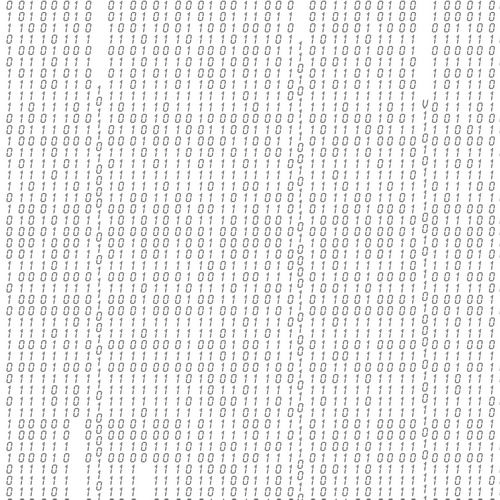
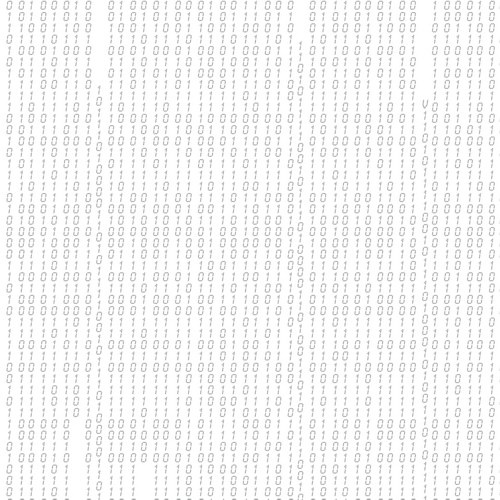
Add new projects, add phone number and resume

Changed region(s): [[0.0, 0.0, 0.99, 1.0]]

diff --git a/portfolio.html b/portfolio.html
@@ -54,12 +54,23 @@
                 <div class="col mb-4">
                   <div class="card h-100">
                     <div class="card-body">
-                      <a href="https://elogonme.github.io/travel-site/" target="_blank">
+                      <a href="https://elogonme.github.io/quarantine-match/" target="_blank">
                         <img src="assets/img/project1.jpg" class="card-img-top w-50 float-sm-left mr-4 btn mx-auto d-block  zoom-less" alt="Travel website">
                       </a>
-                      <h5 class="card-title">Travel Website</h5>
-                      <p class="card-text">Travel company website i made to apply my HTML/CSS/JS skills, improve knowledge, 
-                        practice coding and achieve goals. GitHub, Node.js, NPM, Object-oriented JavaScript, ES6, webpack</p>
+                      <h5 class="card-title">Quarantine Match</h5>
+                      <p class="card-text">Help people to find person of interest based on names and some funny facts, 
+                        entertain and have fun while using Quarantine Match web app. This application allows you to check 
+                        compatibility with people you have recently met based on name and date of birth. </p>
+                    </div>
+                    <div class="card-footer bg-transparent">
+                      <a href="https://elogonme.github.io/quarantine-match/" target="_blank" class="card-link text-info">
+                        <i class="fas fa-mouse-pointer text-secondary"></i>
+                        Website
+                      </a>
+                      <a href="https://github.com/elogonme/quarantine-match" target="_blank" class="card-link text-info">
+                        <i class="fab fa-github-square text-secondary"></i>
+                        GitHub
+                      </a>
                     </div>
                   </div>
                 </div>
@@ -67,39 +78,115 @@
                 <div class="col mb-4">
                   <div class="card h-100">
                     <div class="card-body">
-                      <a href="http://rovel.ca/" target="_blank">
-                        <img src="assets/img/project2.jpg" class="card-img-top w-50 float-sm-left mr-4 btn mx-auto d-block zoom-less" alt="Dive Calculator">
+                      <a href="https://elogonme.github.io/weather-dashboard/" target="_blank">
+                        <img src="assets/img/project2.jpg" class="card-img-top w-50 float-sm-left mr-4 btn mx-auto d-block  zoom-less" alt="Travel website">
                       </a>
-                      <h5 class="card-title">ROVCalc</h5>
-                      <p class="card-text">ROV Dive Time Calculator - Web App created for ROV Team offshore to use during daily 
-                        activities to calculate duration of Dive. Using HTML/CSS/JS</p>
+                      <h5 class="card-title">Weather Dashboard</h5>
+                      <p class="card-text">A simple weather dashboard web app which will get and show weather outlook 
+                        for multiple cities to help plan a trip. App uses the OpenWeather API to retrieve weather data 
+                        for cities. HTTP requests are implemented with use of AJAX, JSON to get data from third-party server-side API.</p>
+                    </div>
+                    <div class="card-footer bg-transparent">
+                      <a href="https://elogonme.github.io/weather-dashboard/" target="_blank" class="card-link text-info">
+                        <i class="fas fa-mouse-pointer text-secondary"></i>
+                        Website
+                      </a>
+                      <a href="https://github.com/elogonme/weather-dashboard" target="_blank" class="card-link text-info">
+                        <i class="fab fa-github-square text-secondary"></i>
+                        GitHub
+                      </a>
                     </div>
                   </div>
                 </div>
-                
+
                 <div class="col mb-4">
                   <div class="card h-100">
                     <div class="card-body">
-                      <a href="https://elogonme.github.io/questionnaire/" target="_blank">
-                        <img src="assets/img/project3.jpg" class="card-img-top w-50 float-sm-left mr-4 btn mx-auto d-block zoom-less" alt="Questionnaire application">
+                      <a href="https://elogonme.github.io/work-scheduler/" target="_blank">
+                        <img src="assets/img/project3.jpg" class="card-img-top w-50 float-sm-left mr-4 btn mx-auto d-block  zoom-less" alt="Travel website">
                       </a>
-                      <h5 class="card-title">Questionnaire</h5>
-                      <p class="card-text">Questionnaire form UI to collect and display personal info of employees - created using 
-                        Typescript / Angular Reactive forms</p>
+                      <h5 class="card-title">Work Day Scheduler</h5>
+                      <p class="card-text">Work Day Scheduler - a simple calendar application that allows a user to save events for each hour of the day.</p>
+                    </div>
+                    <div class="card-footer bg-transparent">
+                      <a href="https://elogonme.github.io/work-scheduler/" target="_blank" class="card-link text-info">
+                        <i class="fas fa-mouse-pointer text-secondary"></i>
+                        Website
+                      </a>
+                      <a href="https://github.com/elogonme/work-scheduler" target="_blank" class="card-link text-info">
+                        <i class="fab fa-github-square text-secondary"></i>
+                        GitHub
+                      </a>
                     </div>
                   </div>
                 </div>
-                
+
+                <div class="col mb-4">
+                  <div class="card h-100">
+                    <div class="card-body">
+                      <a href="https://elogonme.github.io/travel-site/" target="_blank">
+                        <img src="assets/img/project4.jpg" class="card-img-top w-50 float-sm-left mr-4 btn mx-auto d-block  zoom-less" alt="Travel website">
+                      </a>
+                      <h5 class="card-title">Travel Website</h5>
+                      <p class="card-text">Travel company website i made to apply my HTML/CSS/JS skills, improve knowledge, 
+                        practice coding and achieve goals. GitHub, Node.js, NPM, Object-oriented JavaScript, ES6, webpack</p>
+                    </div>
+                    <div class="card-footer bg-transparent">
+                      <a href="https://elogonme.github.io/travel-site/" target="_blank" class="card-link text-info">
+                        <i class="fas fa-mouse-pointer text-secondary"></i>
+                        Website
+                      </a>
+                      <a href="https://github.com/elogonme/travel-site" target="_blank" class="card-link text-info">
+                        <i class="fab fa-github-square text-secondary"></i>
+                        GitHub
+                      </a>
+                    </div>
+                  </div>
+                </div>
+
                 <div class="col mb-4">
                   <div class="card h-100">
                     <div class="card-body">
                       <a href="http://rovel.ca/shopper/" target="_blank">
-                      <img src="assets/img/project4.jpg" class="card-img-top w-50 float-sm-left mr-4 btn mx-auto d-block zoom-less" alt="Shopper application">
+                      <img src="assets/img/project5.jpg" class="card-img-top w-50 float-sm-left mr-4 btn mx-auto d-block zoom-less" alt="Shopper application">
                       </a>
                       <h5 class="card-title">Shopper App</h5>
                       <p class="card-text">Shopper App - Personal Shopping List Web App for convenient grocery shopping - My personal 
                         project implemented using Typescript / Angular. Front End UI using Angular Material / Forms. Backend server 
                         implemented using Angular/NestJS and PostgresSQL database.</p>
+                    </div>
+                    <div class="card-footer bg-transparent">
+                      <a href="http://rovel.ca/shopper/" target="_blank" class="card-link text-info">
+                        <i class="fas fa-mouse-pointer text-secondary"></i>
+                        Website
+                      </a>
+                      <a href="https://github.com/elogonme/shopper" target="_blank" class="card-link text-info">
+                        <i class="fab fa-github-square text-secondary"></i>
+                        GitHub
+                      </a>
+                    </div>
+                  </div>
+                </div>
+                
+                <div class="col mb-4">
+                  <div class="card h-100">
+                    <div class="card-body">
+                      <a href="http://rovel.ca/" target="_blank">
+                        <img src="assets/img/project6.jpg" class="card-img-top w-50 float-sm-left mr-4 btn mx-auto d-block zoom-less" alt="Dive Calculator">
+                      </a>
+                      <h5 class="card-title">ROVCalc</h5>
+                      <p class="card-text">ROV Dive Time Calculator - Web App created for ROV Team offshore to use during daily 
+                        activities to calculate duration of Dive. Using HTML/CSS/JS</p>
+                    </div>
+                    <div class="card-footer bg-transparent">
+                      <a href="http://rovel.ca/" target="_blank" class="card-link text-info">
+                        <i class="fas fa-mouse-pointer text-secondary"></i>
+                        Website
+                      </a>
+                      <a href="https://github.com/elogonme/rovcalc" target="_blank" class="card-link text-info">
+                        <i class="fab fa-github-square text-secondary"></i>
+                        GitHub
+                      </a>
                     </div>
                   </div>
                 </div>
@@ -117,6 +204,9 @@
       <div class="text-light text-sm-center py-2 px-2 footer-text">© 2020 Copyright: Eldar Humbatov
         <!-- Social links  -->
         <div class="float-right mr-4">
+          <a href="tel:+1-416-823-4666" target="_blank" title="E-mail" class="text-white">
+            <i class="fas fa-phone-square px-2 zoom"></i>
+          </a>
           <a href="mailto:eldarha@gmail.com" target="_blank" title="E-mail" class="text-white">
             <i class="fas fa-at px-2 zoom"></i>
           </a>

diff --git a/index.html b/index.html
@@ -39,9 +39,6 @@
         </ul>
       </div>
     </nav>
-
-    <!-- Background Image -->
-    <div class="hero"></div>
     
     <main>
       <!-- Main Body goes in Container -->
@@ -49,7 +46,9 @@
         <!-- Card content About me-->
         <div class="card mt-4 col-lg-8 col-xs-12 shadow">
           <div class="card-body">
-            <h2 class="card-title border-bottom pb-2 text-info"><i class="far fa-address-card mr-2 text-secondary"></i>About Me</h2>
+            <h2 class="card-title border-bottom pb-2 text-info"><i class="far fa-address-card mr-2 text-secondary"></i>About Me:
+              <span class="text-secondary"> Eldar Humbatov</span>
+            </h2>
             <img src="assets/img/eldar.png" class="card-img-left mx-2 float-sm-left img-fluid mx-auto d-block" alt="Photo of Eldar">
             <p class="card-text">I am Front-End Developer with an engineering background and extensive skills in coding, electronics 
               and troubleshooting computer operated systems. I am studying to earn certificate from University of Toronto in full stack 
@@ -61,6 +60,21 @@
               cutting-edge product sharpening my skills. I am excited about developer’s role as it always keeps you challenged and gets 
               you constantly learn new technologies and solutions.</p>
           </div>
+          <div class="card-footer bg-transparent d-flex flex-column flex-sm-row justify-content-around">
+            <a href="mailto:eldarha@gmail.com" target="_blank" title="E-mail" class="text-info col-xs-12">
+              <i class="far fa-envelope text-secondary"></i>
+              eldarha@gmail.com
+            </a>
+            <a href="tel:+1-416-823-4666" class="text-info col-xs-12">
+              <i class="fas fa-phone-square text-secondary"></i>
+              +1-416-823-4666
+            </a>
+            <a href="assets/doc/EldarHumbatov_Resume.pdf" target="_blank" class="text-info col-xs-12">
+              <i class="far fa-file-alt text-secondary"></i>
+              Resume
+            </a>
+
+          </div>
         </div>   
       </div>
     </main>
@@ -71,6 +85,9 @@
       <div class="text-light text-sm-center py-2 px-2 footer-text">© 2020 Copyright: Eldar Humbatov
         <!-- Social links  -->
         <div class="float-right mr-4">
+          <a href="tel:+1-416-823-4666" target="_blank" title="E-mail" class="text-white">
+            <i class="fas fa-phone-square px-2 zoom"></i>
+          </a>
           <a href="mailto:eldarha@gmail.com" target="_blank" title="E-mail" class="text-white">
             <i class="fas fa-at px-2 zoom"></i>
           </a>

diff --git a/contact.html b/contact.html
@@ -74,13 +74,16 @@
           
             <!-- Social Links Icons -->
             <a href="https://github.com/elogonme/" target="_blank" title="GitHub" class="text-secondary float-right mr-sm-4 mt-1">
-              <i class="fab fab fa-github fa-2x px-2 zoom"></i>
+              <i class="fab fab fa-github fa-2x px-1 zoom"></i>
             </a>
             <a href="https://www.linkedin.com/in/eldarhumbatov/" target="_blank" title="LinkedIn" class="text-secondary float-right mr-sm-4 mt-1">
-              <i class="fab fa-linkedin-in fa-2x px-2 zoom"></i>
+              <i class="fab fa-linkedin-in fa-2x px-1 zoom"></i>
             </a>
             <a href="mailto:eldarha@gmail.com" target="_blank" title="E-mail" class="text-secondary float-right mr-sm-4 mt-1">
-              <i class="fas fa-at fa-2x px-2 zoom"></i>
+              <i class="fas fa-at fa-2x px-1 zoom"></i>
+            </a>
+            <a href="tel:+1-416-823-4666" target="_blank" title="Phone" class="text-secondary float-right mr-sm-4 mt-1">
+              <i class="fas fa-phone-square fa-2x px-1 zoom"></i>
             </a>
           </form>
         </div>   
@@ -93,6 +96,9 @@
       <div class="text-light text-sm-center py-2 px-2 footer-text">© 2020 Copyright: Eldar Humbatov
         <!-- Social links  -->
         <div class="float-right mr-4">
+          <a href="tel:+1-416-823-4666" target="_blank" title="E-mail" class="text-white">
+            <i class="fas fa-phone-square px-2 zoom"></i>
+          </a>
           <a href="mailto:eldarha@gmail.com" target="_blank" title="E-mail" class="text-white">
             <i class="fas fa-at px-2 zoom"></i>
           </a>

diff --git a/assets/css/index.css b/assets/css/index.css
@@ -1,19 +1,10 @@
+body {
+    padding-bottom: 50px;
+    background: url("../img/code-bg.jpg");
+}
 .h1 {
     font-size: 1.5rem;
     padding: 0;
-}
-
-/* Set background image and some opacity to make it less visible - from CSS Tricks */
-.hero::after {
-    content: "";
-    background: url("../img/code-bg.jpg");
-    opacity: 0.5;
-    top: 0;
-    left: 0;
-    bottom: 0;
-    right: 0;
-    position: absolute;
-    z-index: -1;   
 }
 
 /* Icon next to name in navbar */
@@ -65,6 +56,10 @@ footer a:link {
 @media screen and (max-width: 420px) {
     
   .footer-text {
-    font-size: 0.8rem;
+    font-size: 0.7rem;
+  }
+
+  .card-img-top {
+      width: 80%!important;
   }
 }
